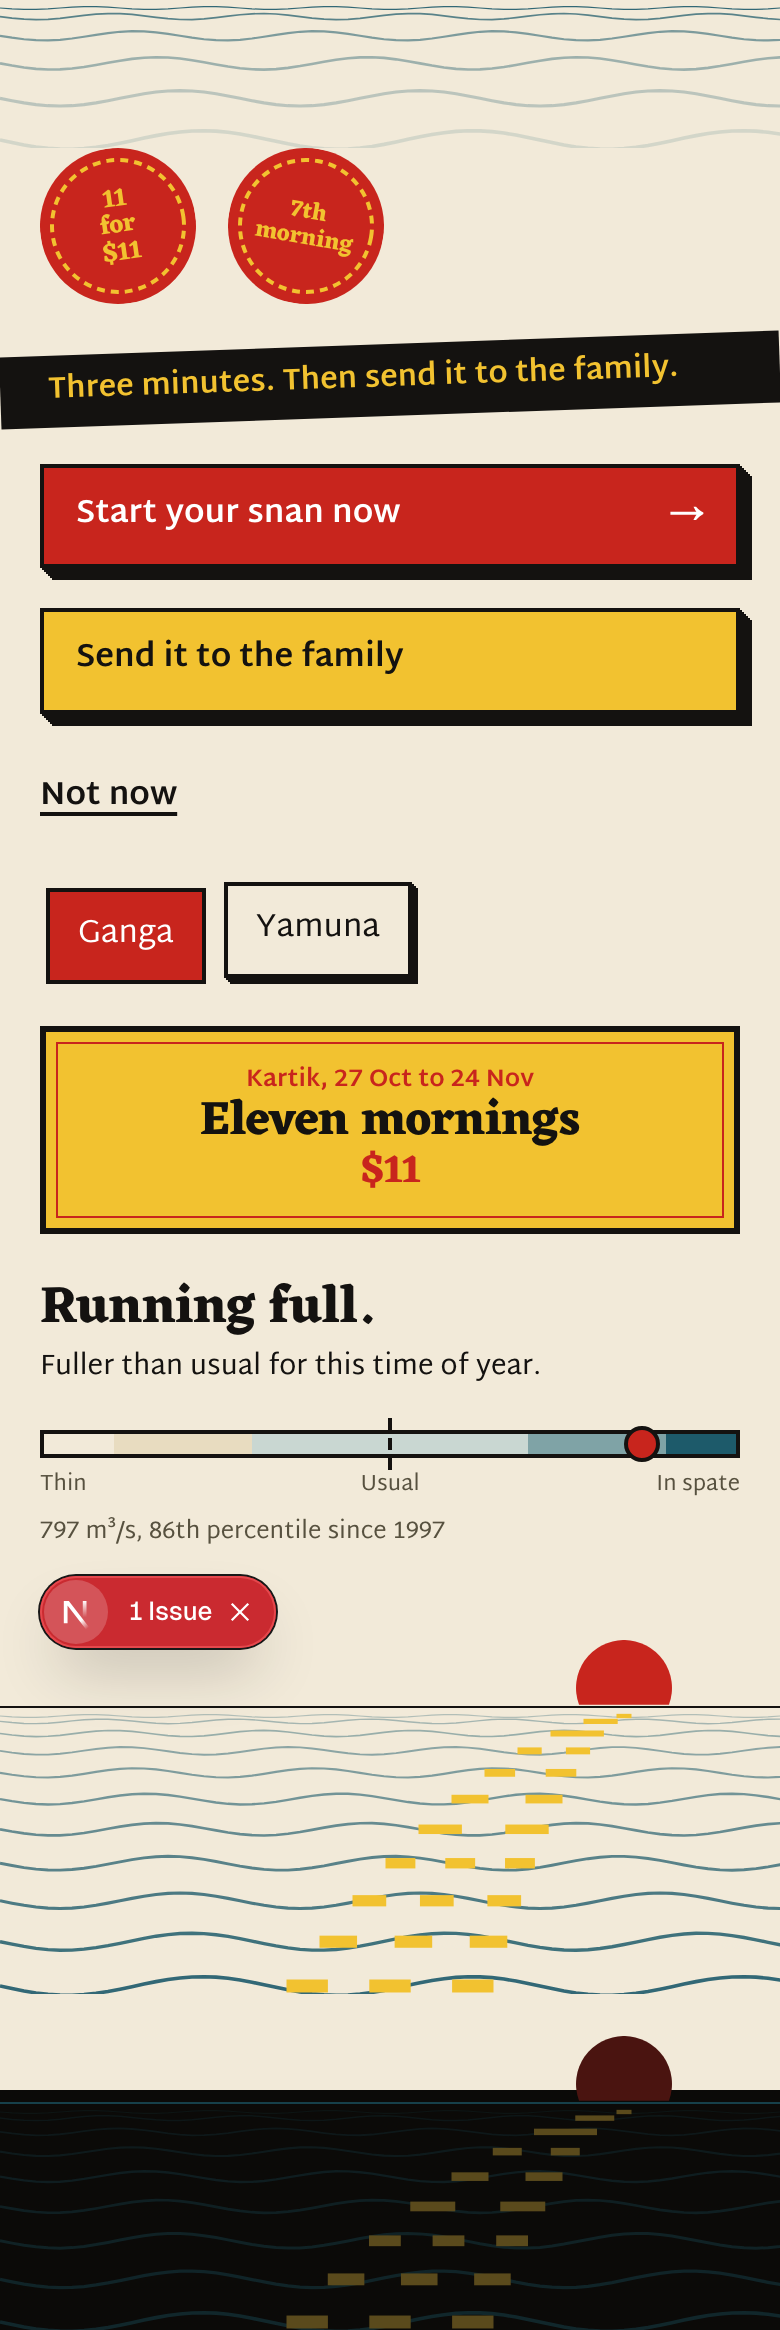
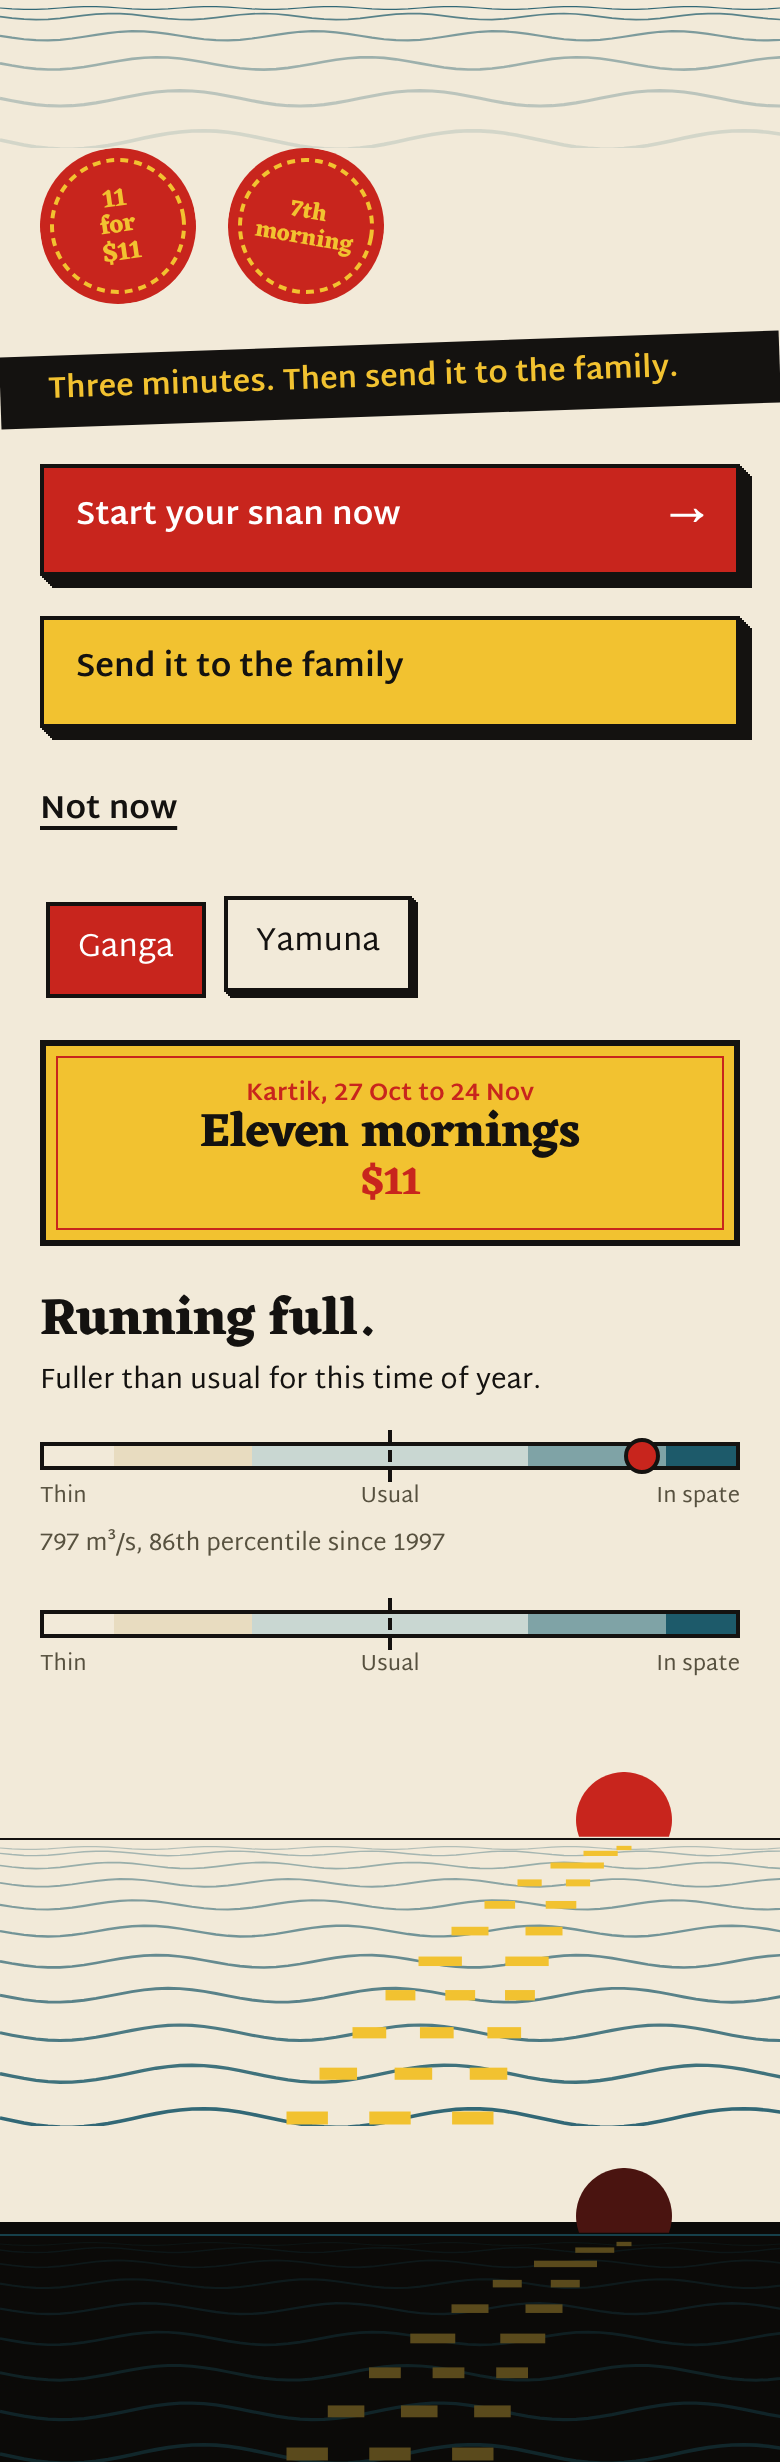
design-v3: kit review fixes (56px press, quiet gauge says nothing, clean shots)

diff --git a/src/components/ui/index.tsx b/src/components/ui/index.tsx
@@ -42,17 +42,18 @@ export function Section({
    box and sinks flush under the thumb, which is the only feedback a phone
    gives. One block per screen; a secondary action is a plain underlined
    link, never a second block. */
+const quiet =
+  "inline-flex min-h-[44px] items-center gap-2 font-bold text-ink underline decoration-ink decoration-2 underline-offset-4 active:text-sindoor disabled:opacity-60";
+
 const buttonVariants = {
   /* Sindoor face, white type, an arrow at the right. */
   solid: "press",
   /* Marigold face, ink type: "Send it to the family", and nothing else. */
   share: "press press-share",
   /* A plain ink-underlined link. */
-  quiet:
-    "inline-flex min-h-[44px] items-center gap-2 font-bold text-ink underline decoration-ink decoration-2 underline-offset-4 active:text-sindoor disabled:opacity-60",
+  quiet,
   /** @deprecated The ruled ghost box is retired in v3: it reads as the quiet link until its surface task removes the call (Task 20 deletes this key). */
-  ghost:
-    "inline-flex min-h-[44px] items-center gap-2 font-bold text-ink underline decoration-ink decoration-2 underline-offset-4 active:text-sindoor disabled:opacity-60",
+  ghost: quiet,
 } as const;
 
 export type ButtonVariant = keyof typeof buttonVariants;

diff --git a/tests/unit/kit.test.ts b/tests/unit/kit.test.ts
@@ -16,6 +16,11 @@ describe("the kit", () => {
     expect(css).toMatch(/\.press:active\s*\{[^}]*translate\(6px,\s*6px\)/);
   });
 
+  it("the primary press is a 56px thumb target, a choice 44px", () => {
+    expect(css).toMatch(/\.press\s*\{[^}]*min-height:\s*56px/);
+    expect(css).toMatch(/\.press-choice\s*\{[^}]*min-height:\s*44px/);
+  });
+
   it("the share press is marigold, the quiet one is a link", () => {
     expect(buttonClass("share")).toContain("press-share");
     expect(buttonClass("quiet")).not.toMatch(/\bpress\b/);
@@ -38,6 +43,13 @@ describe("the kit", () => {
 
   it("the gauge draws no dot when the feed is quiet", () => {
     expect(html(Gauge({ percentile: null, band: null, lang: "en" }))).not.toContain("data-today");
+  });
+
+  it("the gauge claims nothing about today when the feed is quiet", () => {
+    const out = html(Gauge({ percentile: null, band: null, lang: "en" }));
+    expect(out).not.toContain("aria-label");
+    expect(out).not.toContain('role="img"');
+    expect(out).not.toContain("Running as usual");
   });
 
   it("the gauge puts today at its percentile, over five fills", () => {

diff --git a/src/components/kit/Gauge.tsx b/src/components/kit/Gauge.tsx
@@ -47,8 +47,10 @@ export function Gauge({
       ) : null}
       <div
         className={heading && today ? "relative mt-5" : "relative mt-2.5"}
-        role="img"
-        aria-label={today ? t.state[today] : t.word.usual}
+        /* A quiet feed claims nothing about today: the strip is then decoration. */
+        role={today ? "img" : undefined}
+        aria-label={today ? t.state[today] : undefined}
+        aria-hidden={today ? undefined : true}
       >
         <div className="flex h-[14px]" style={{ border: "2px solid var(--ink)" }}>
           {model.segments.map((s, i) => (

diff --git a/src/app/globals.css b/src/app/globals.css
@@ -171,7 +171,7 @@
     align-items: center;
     justify-content: space-between;
     gap: 0.75rem;
-    min-height: 44px;
+    min-height: 56px;
     padding: 0.875rem 1rem;
     font-family: var(--font-body);
     font-weight: 700;
